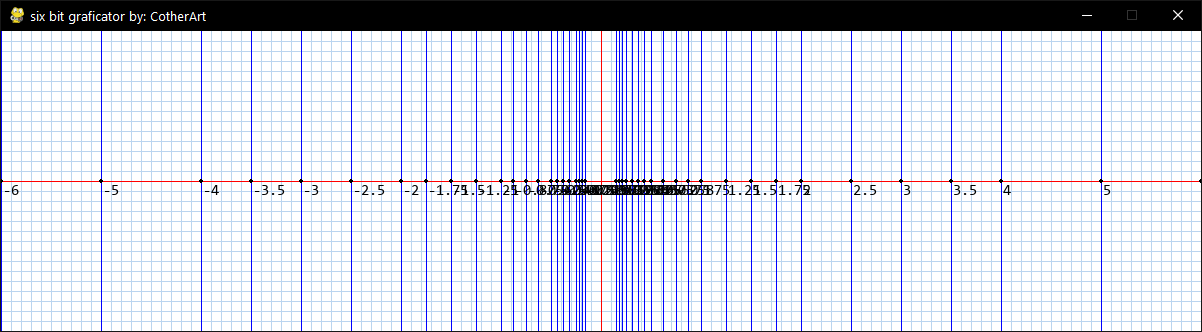
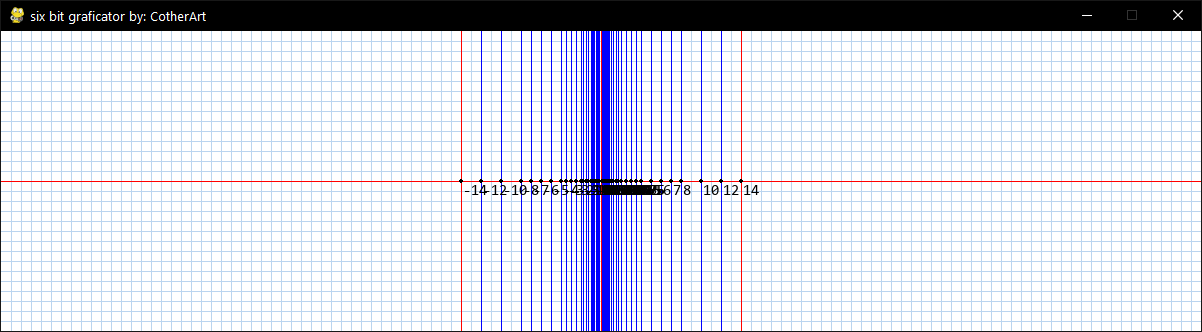
README.md updated and added screenshots

diff --git a/README.md b/README.md
@@ -19,4 +19,7 @@ zoom 4
 ```
 
 ## Screenshots
+### Zoom 2
 ![Screenshot](screenshots/zoom2.png)
+### Zoom 3
+![Screenshot](screenshots/zoom3.png)
